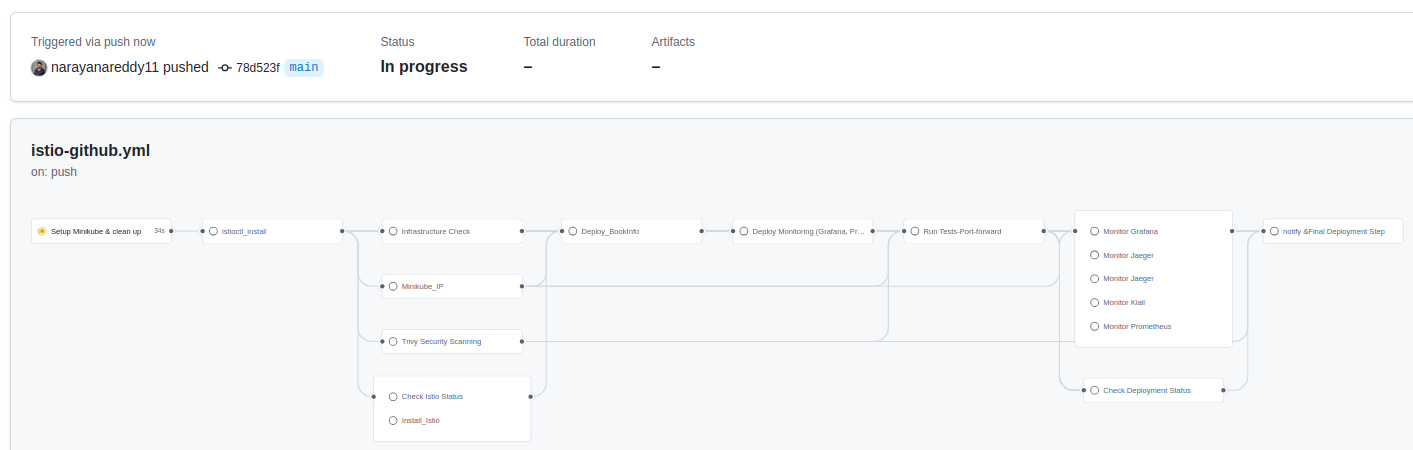
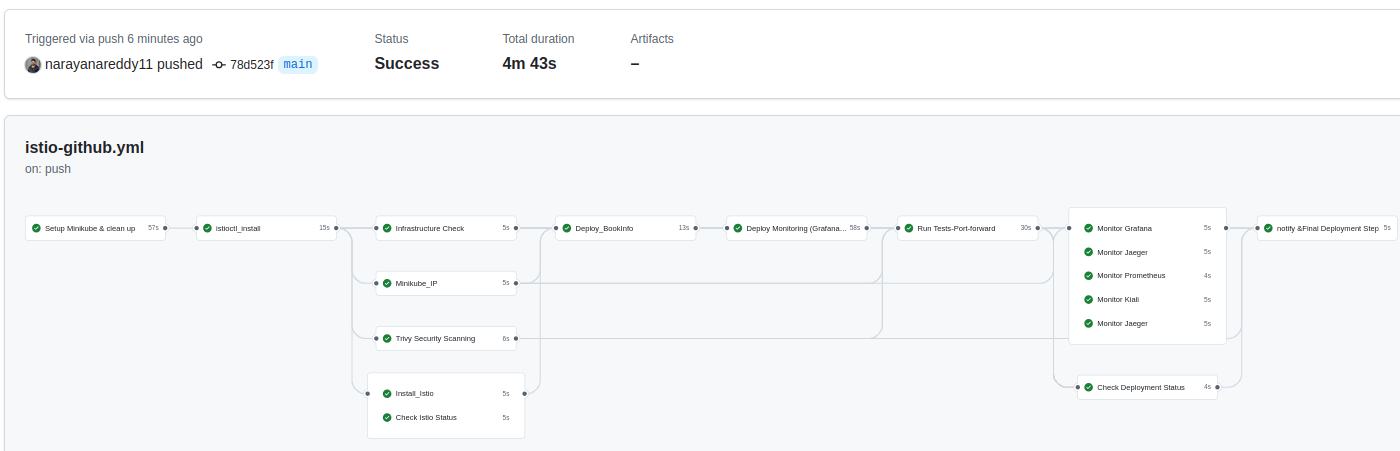
Update ci-cd.png to improve visual representation in documentation

diff --git a/README.md b/README.md
@@ -5,18 +5,21 @@ This repository contains a robust CI/CD pipeline built using **GitHub Actions** 
 📷 Screenshots (Optional)
 You can add screenshots of:
 
+CI/CD Pipeline Overview
+
 ![CI/CD Pipeline Overview](images/ci-cd.png)
+## BookInfo App
 ![BookInfo App](images/app.png)
 
-Grafana dashboards:
+## Grafana dashboards:
 
-Kiali Service Mesh view:
+## Kiali Service Mesh view:
 
-Jaeger traces:
+## CI/CD Pipeline Overviewaeger traces:
 
-Zipkin :
+## Zipkin :
 
-Prometheus:
+## Prometheus:
 
 ## Overview
 The **Bookinfo** application consists of multiple microservices demonstrating Istio's capabilities, including traffic routing, observability, and security enforcement. It includes:
